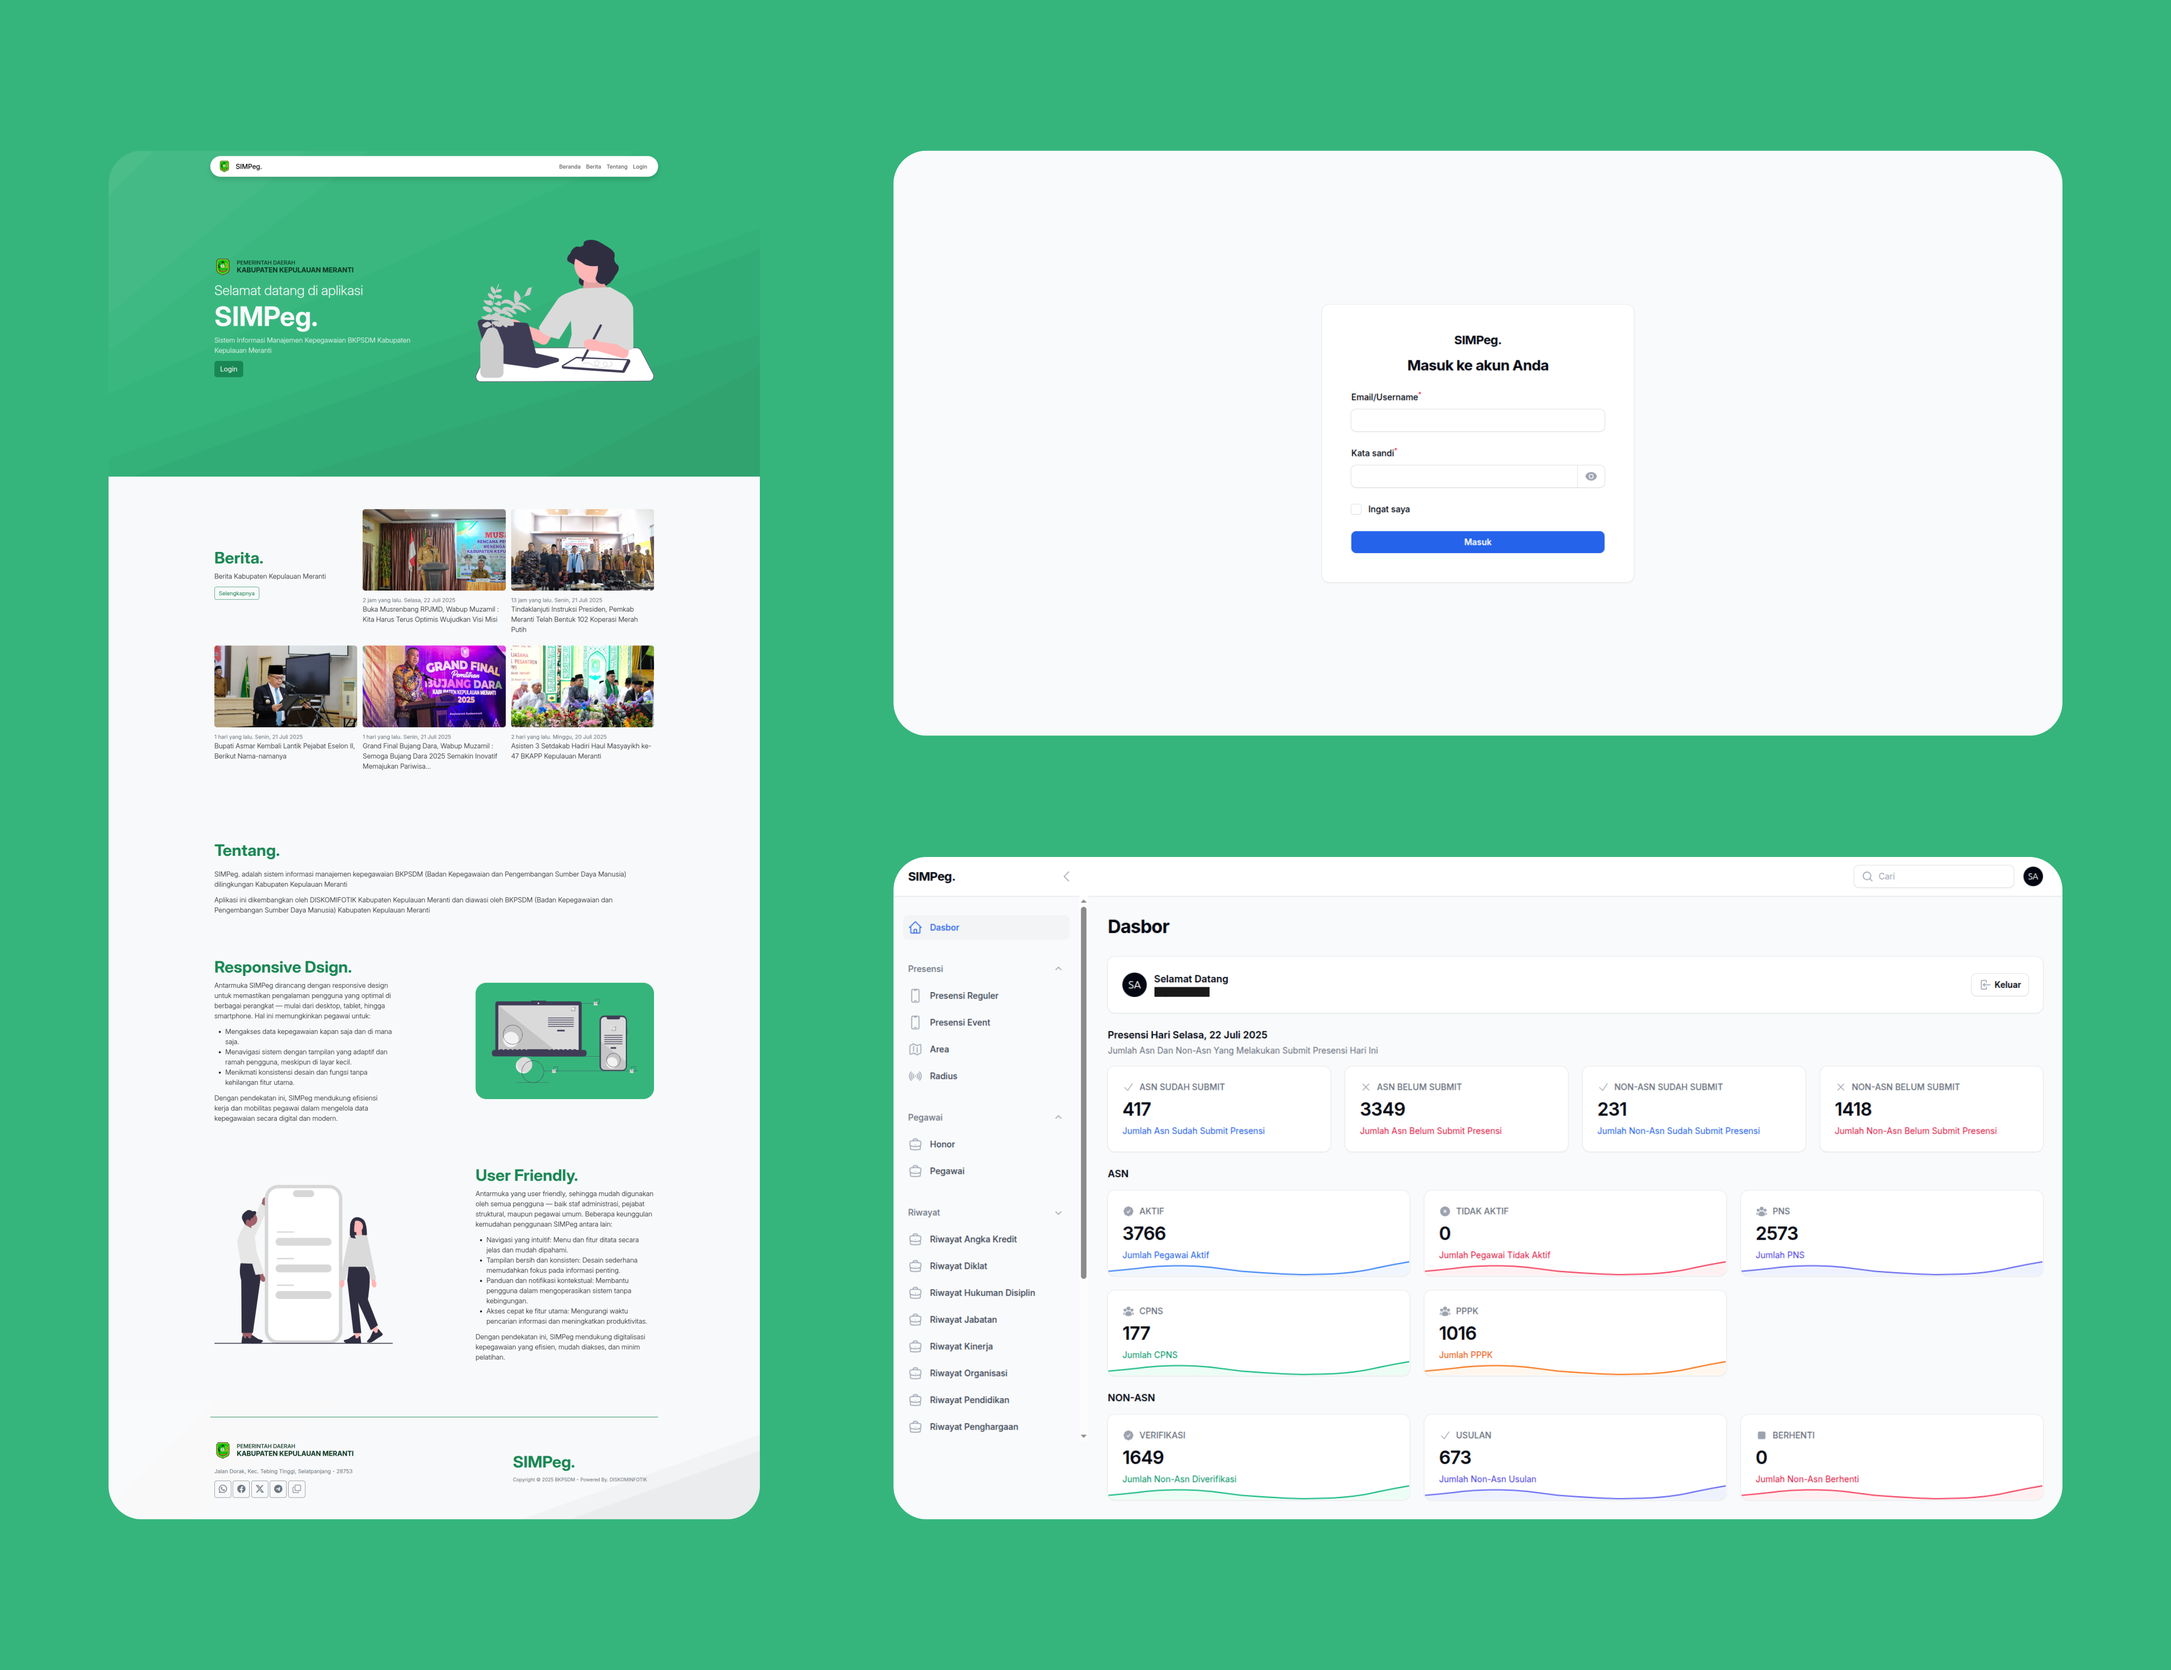
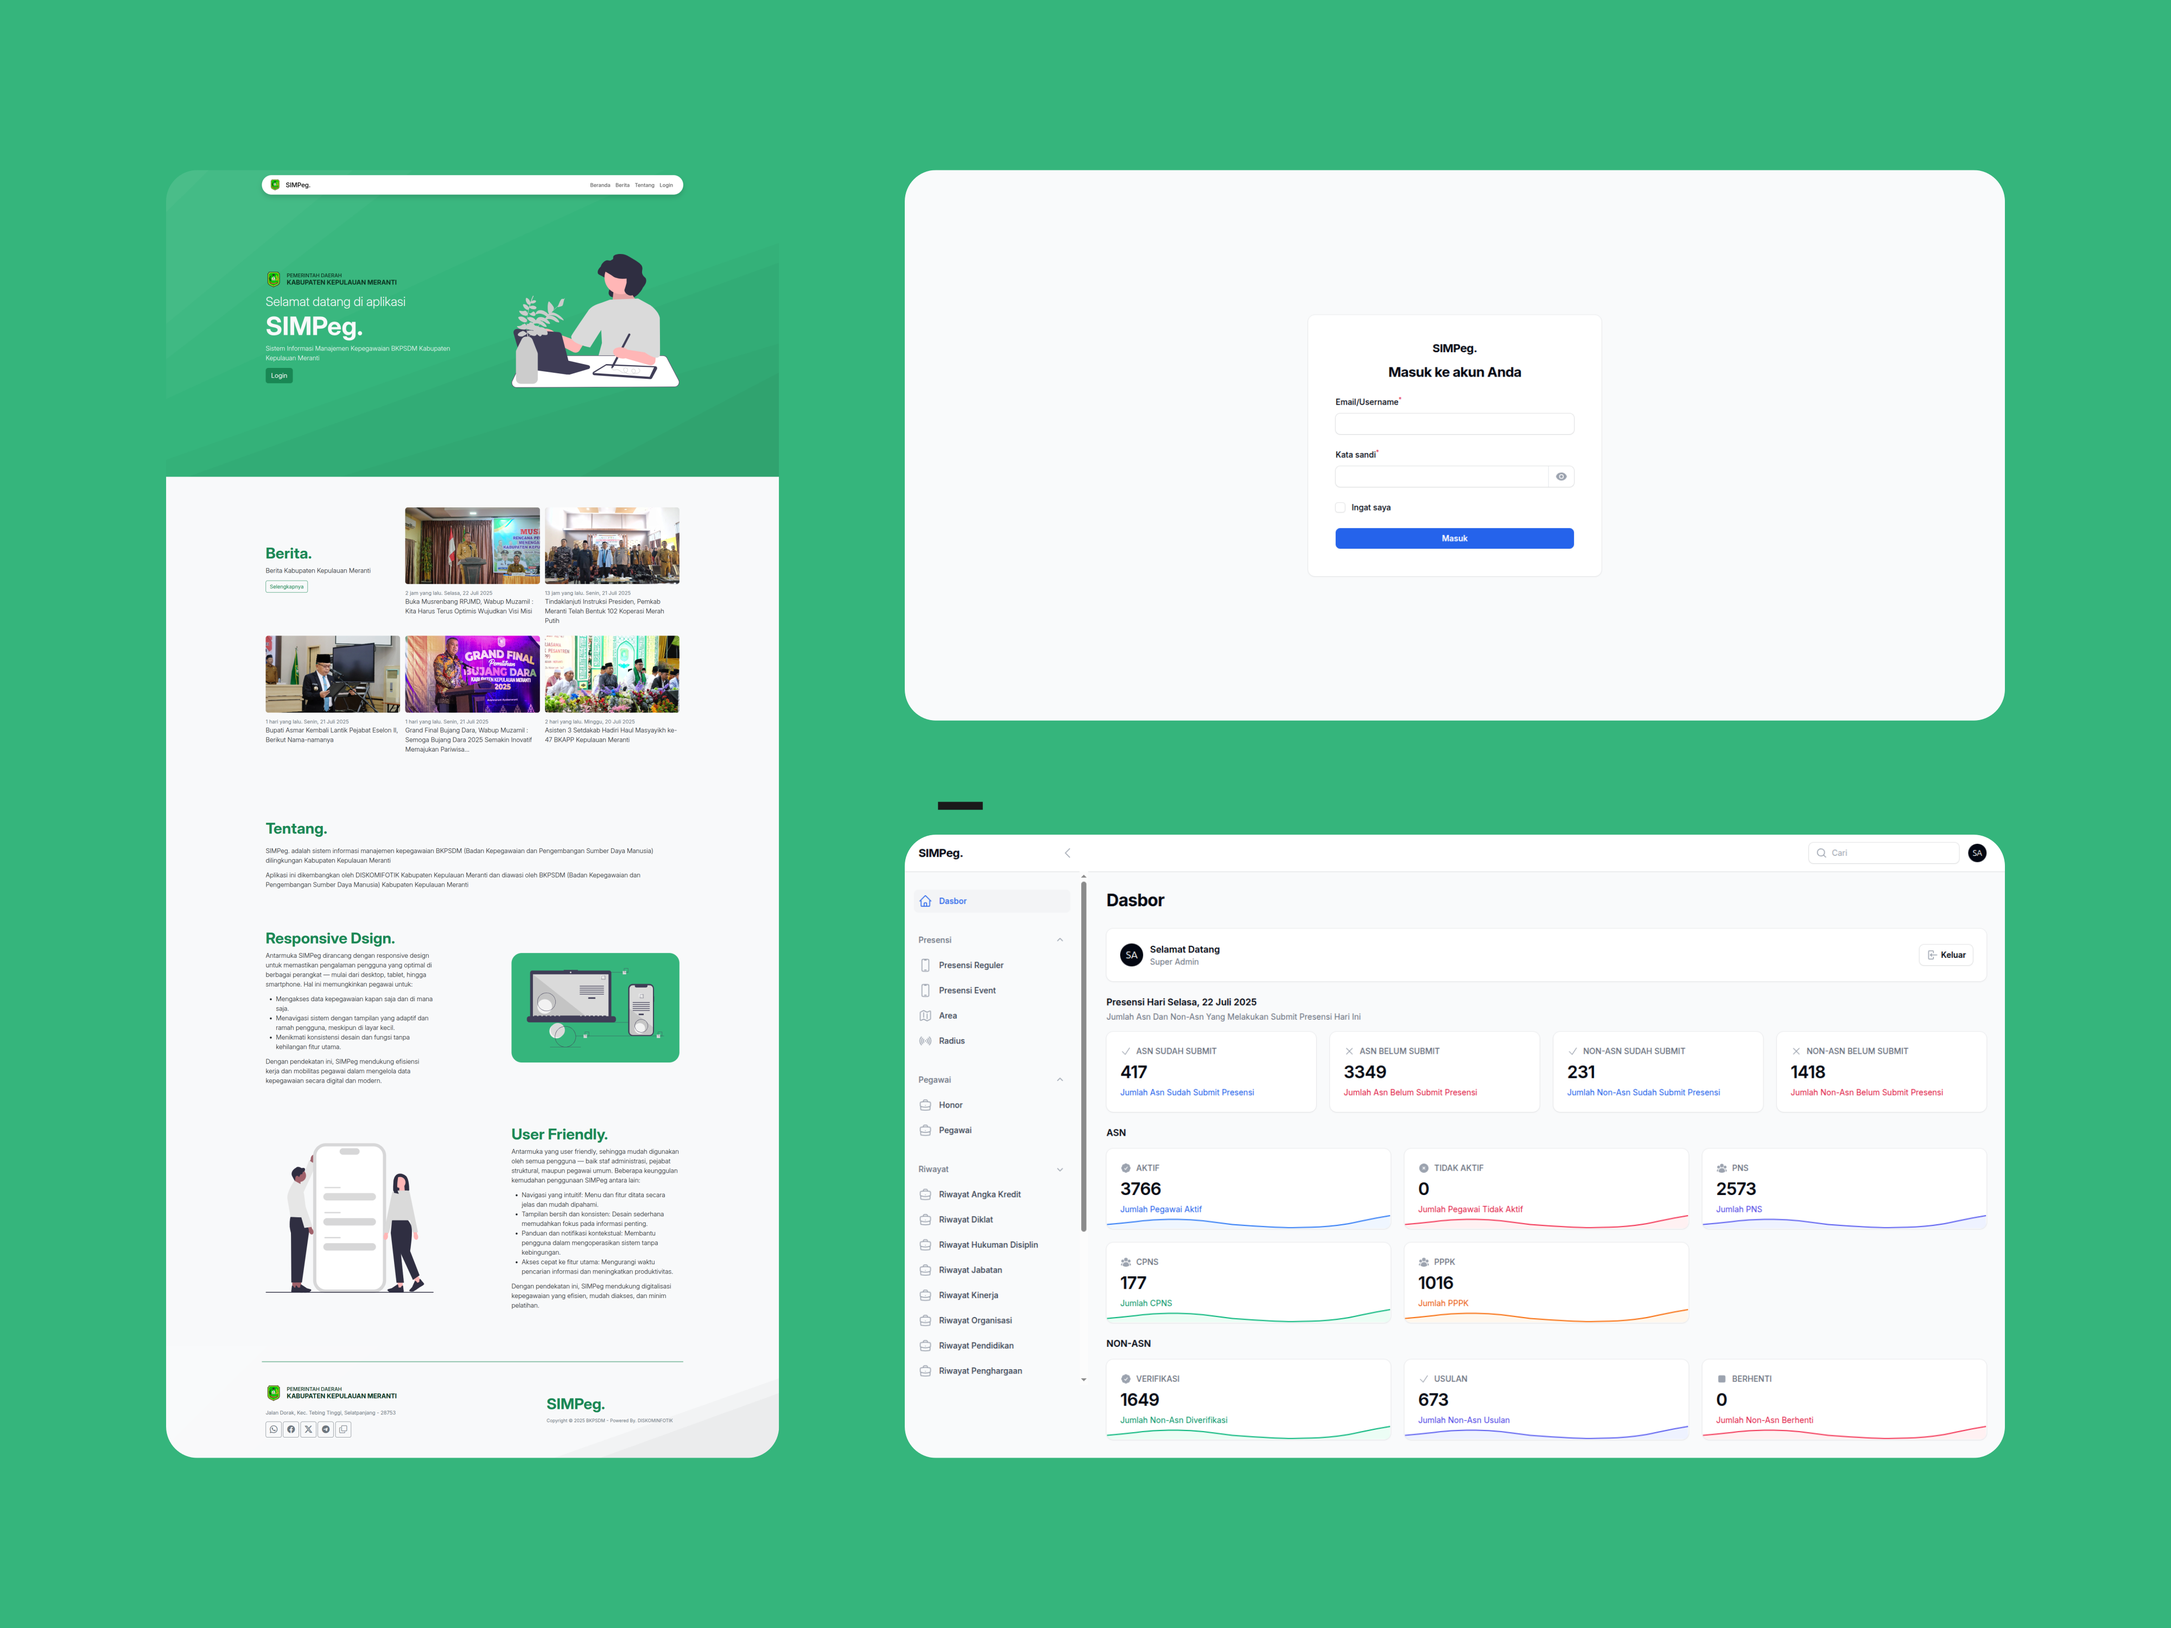
FEAT: add project

diff --git a/index.html b/index.html
@@ -220,7 +220,7 @@
                         <div class="row justify-content-center">
                             <div class="col-12">
                                 <img
-                                    src="/src/assets/image/undraw/undraw_learning_qt7d.svg"
+                                    src="/src/assets/image/undraw/undraw_books_wxzz.svg"
                                     alt="image"
                                     class="w-100 p-5"
                                 />
@@ -278,7 +278,7 @@
                         <li>
                             <h5>Programmer</h5>
                             <p>DISKOMINFOTIK Kepulauan Meranti</p>
-                            <p>2022-2024</p>
+                            <p>2022-2025</p>
                         </li>
                         <li>
                             <h5>Laboratory IT staff</h5>
@@ -441,9 +441,10 @@
                     Project.
                 </h1>
             </div>
-            <div class="row g-4" data-masonry='{"percentPosition": true }'>
+            <!-- <div class="row g-4" data-masonry='{"percentPosition": true }'> -->
+            <div class="row g-4">
                 <div class="col-12 col-sm-6 col-md-4">
-                    <div class="card rounded-4 border-0 shadow-sm">
+                    <div class="card rounded-4 border-0 shadow-sm h-100 p-3">
                         <a
                             href="/src/assets/image/project/simpeg.png"
                             target="_blank"
@@ -454,7 +455,7 @@
                                 alt="image"
                             />
                         </a>
-                        <div class="card-body">
+                        <div class="card-body px-0">
                             <h5 class="card-title">
                                 <a
                                     href="https://simpeg.merantikab.go.id/"
@@ -465,22 +466,20 @@
                                 </a>
                             </h5>
                             <p class="card-text fw-light">
-                                SIMPeg. adalah sistem informasi manajemen
-                                kepegawaian BKPSDM (Badan Kepegawaian dan
-                                Pengembangan Sumber Daya Manusia) dilingkungan
-                                Kabupaten Kepulauan Meranti.
+                                Sistem Informasi Manajemen Kepegawaian Kabupaten
+                                Kepulauan Meranti.
                             </p>
-                            <p class="card-text">
-                                <small class="text-body-secondary">
-                                    Laravel, Filamentphp, Bootstrap
-                                </small>
-                            </p>
+                        </div>
+                        <div class="card-footer bg-transparent border-0 p-0">
+                            <small class="text-body-secondary">
+                                Laravel, Filamentphp, Bootstrap
+                            </small>
                         </div>
                     </div>
                 </div>
 
                 <div class="col-12 col-sm-6 col-md-4">
-                    <div class="card rounded-4 border-0 shadow-sm">
+                    <div class="card rounded-4 border-0 shadow-sm h-100 p-3">
                         <a
                             href="/src/assets/image/project/wartawan.png"
                             target="_blank"
@@ -491,7 +490,7 @@
                                 alt="image"
                             />
                         </a>
-                        <div class="card-body">
+                        <div class="card-body px-0">
                             <h5 class="card-title">
                                 <a
                                     href="http://e-wartawan.merantikab.go.id/"
@@ -505,49 +504,81 @@
                                 Aplikasi hitung poin kerja sama Media dan
                                 Pemerintah Kabupaten Kepulauan Meranti
                             </p>
-                            <p class="card-text">
-                                <small class="text-body-secondary">
-                                    Laravel, AdminLTE, Bootstrap
-                                </small>
-                            </p>
+                        </div>
+                        <div class="card-footer bg-transparent border-0 p-0">
+                            <small class="text-body-secondary">
+                                Laravel, AdminLTE, Bootstrap
+                            </small>
                         </div>
                     </div>
                 </div>
 
                 <div class="col-12 col-sm-6 col-md-4">
-                    <div class="card rounded-4 border-0 shadow-sm">
+                    <div class="card rounded-4 border-0 shadow-sm h-100 p-3">
                         <a
-                            href="/src/assets/image/project/simpeg.png"
+                            href="/src/assets/image/project/tamu.png"
                             target="_blank"
                         >
                             <img
-                                src="/src/assets/image/default-img.svg"
+                                src="/src/assets/image/project/thumbnail/tamu.png"
                                 class="card-img-top rounded-4"
                                 alt="image"
                             />
                         </a>
-                        <div class="card-body">
+                        <div class="card-body px-0">
                             <h5 class="card-title">
                                 <a
-                                    href="https://simpeg.merantikab.go.id/"
+                                    href="http://tamu.merantikab.go.id/"
                                     target="_blank"
                                     class="text-reset text-decoration-none"
                                 >
-                                    Lorem ipsum dolor sit.
+                                    Tamu
                                 </a>
                             </h5>
                             <p class="card-text fw-light">
-                                Lorem ipsum dolor sit amet consectetur,
-                                adipisicing elit. Laboriosam voluptatem magnam,
-                                architecto recusandae eveniet autem distinctio
-                                pariatur excepturi, vel voluptatum, enim
-                                repellat neque? Animi, totam!
+                                Aplikasi Buku Tamu yang dapat digunakan oleh
+                                semua OPD di Kabupaten Kepulauan Meranti
                             </p>
-                            <p class="card-text">
-                                <small class="text-body-secondary">
-                                    Laravel, Filamentphp, Bootstrap
-                                </small>
+                        </div>
+                        <div class="card-footer bg-transparent border-0 p-0">
+                            <small class="text-body-secondary">
+                                Laravel, Filamentphp, Bootstrap, Javascript
+                            </small>
+                        </div>
+                    </div>
+                </div>
+
+                <div class="col-12 col-sm-6 col-md-4">
+                    <div class="card rounded-4 border-0 shadow-sm h-100 p-3">
+                        <a
+                            href="/src/assets/image/project/sipengsan.png"
+                            target="_blank"
+                        >
+                            <img
+                                src="/src/assets/image/project/thumbnail/sipengsan.png"
+                                class="card-img-top rounded-4"
+                                alt="image"
+                            />
+                        </a>
+                        <div class="card-body px-0">
+                            <h5 class="card-title">
+                                <a
+                                    href="http://sipengsanpdu.merantikab.go.id/"
+                                    target="_blank"
+                                    class="text-reset text-decoration-none"
+                                >
+                                    SiPENGSAN
+                                </a>
+                            </h5>
+                            <p class="card-text fw-light">
+                                Sistem Informasi Pengelolaan Kegiatan Kawasan
+                                Perbatasan, Bagian Pengelola Perbatasan
                             </p>
+                        </div>
+                        <div class="card-footer bg-transparent border-0 p-0">
+                            <small class="text-body-secondary">
+                                Codeigniter3, Bootstrap
+                            </small>
                         </div>
                     </div>
                 </div>
